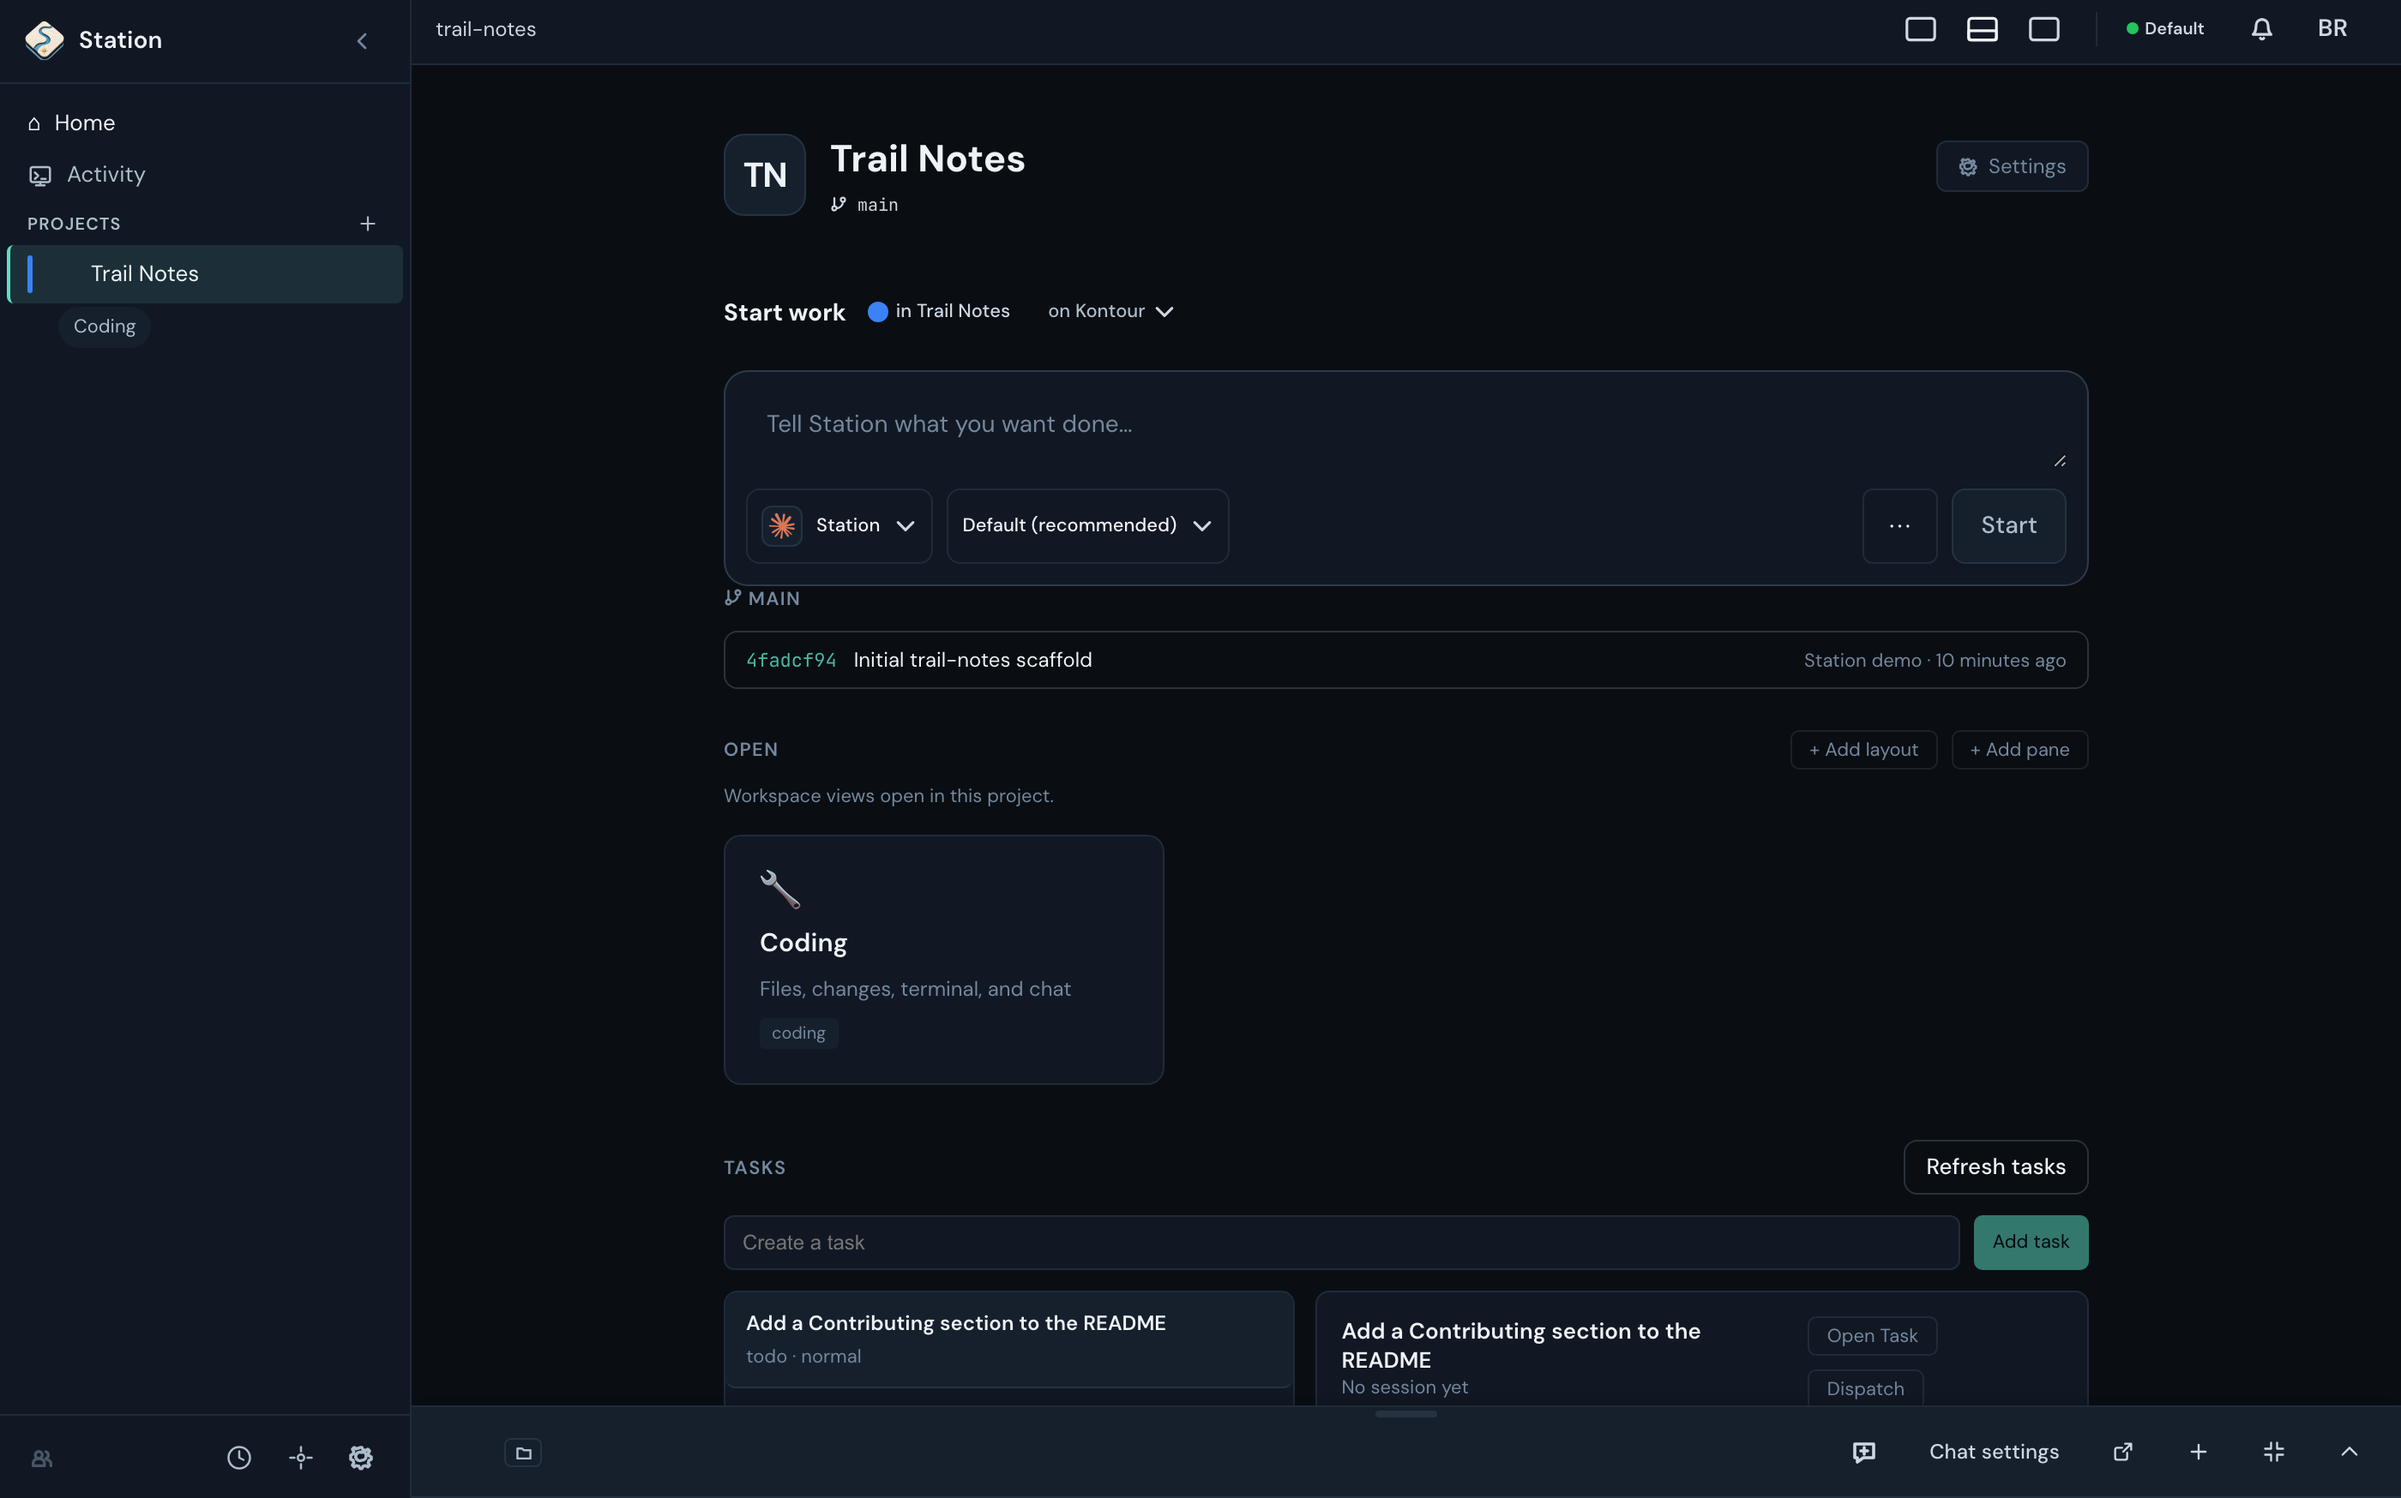
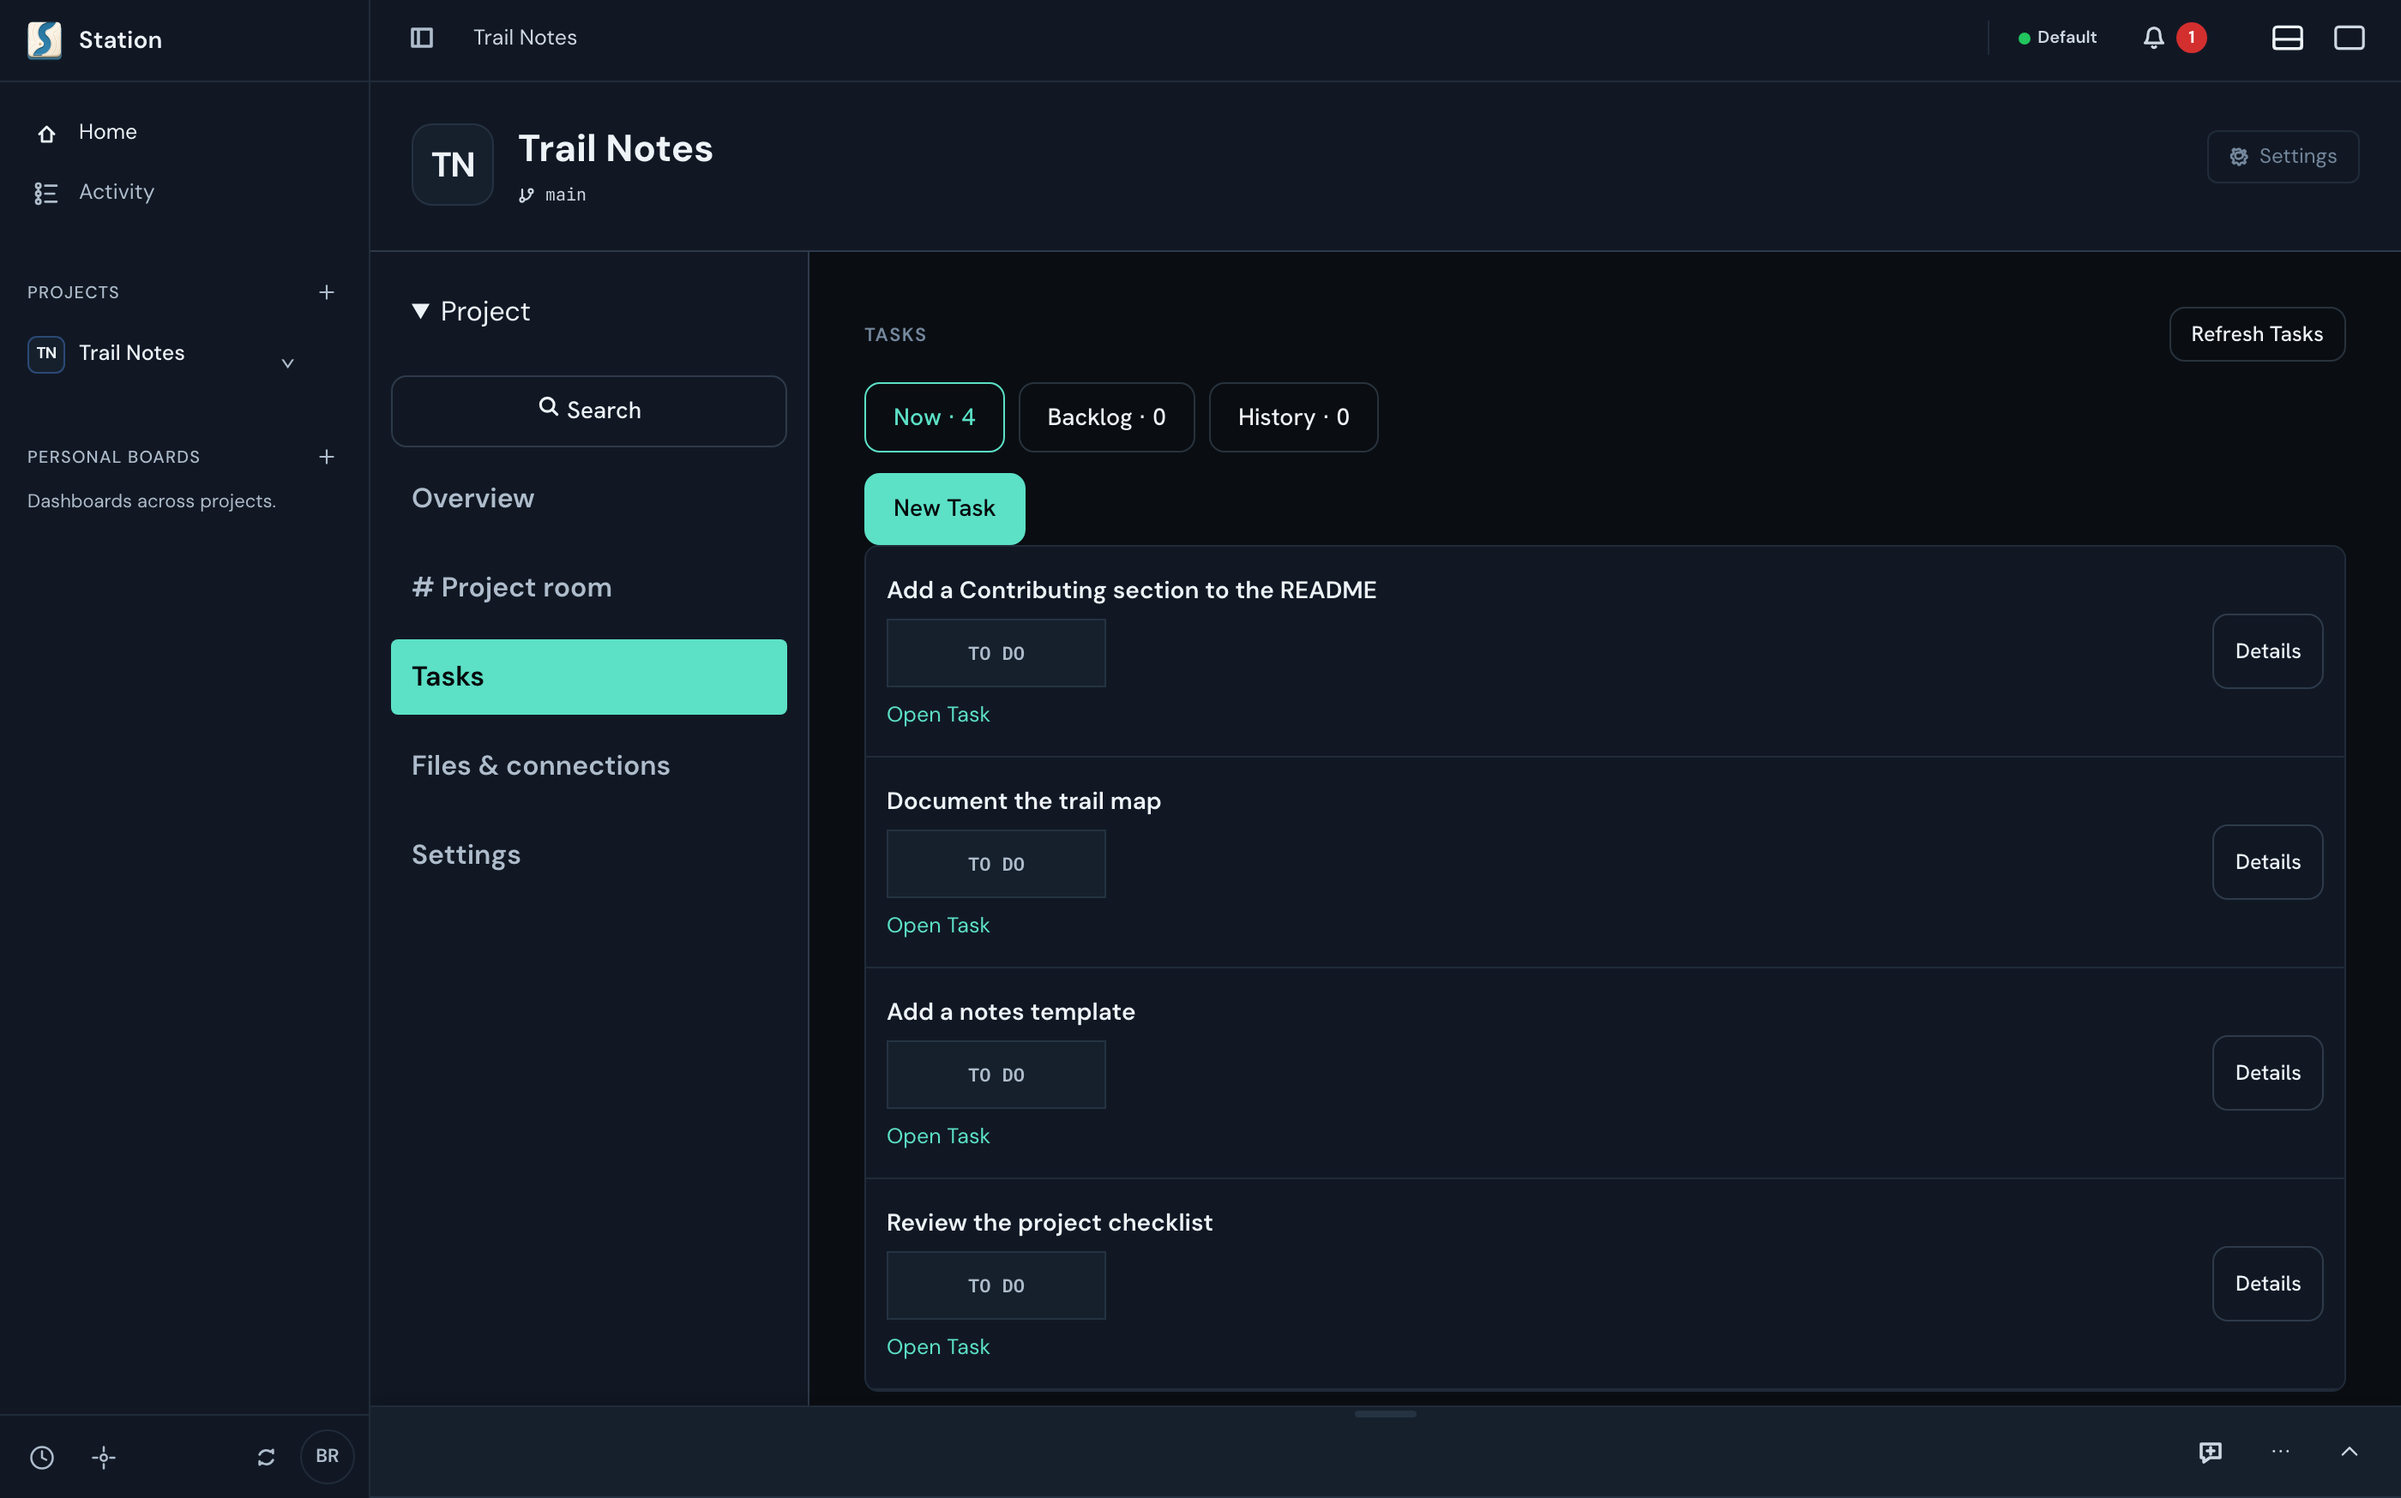
Refresh Station and Flow marketing visuals and copy (#338)
* Refresh reviewed Veritas and Flow Agents copy

* Refresh Station and Flow marketing visuals

* Finalize Station capture copy and Veritas evidence wording

* Correct planning and Station install claims

* Clarify runtime and platform limitations

diff --git a/src/lib/runtime-enforcement.ts b/src/lib/runtime-enforcement.ts
@@ -29,21 +29,14 @@ export const runtimeEnforcement: RuntimeEnforcement[] = [
     meaning: "Same blocking path, wired through Codex's hooks.json.",
   },
   {
-    // Kiro's adapter has the full blocking capability (hook-surface L2), but
-    // Kiro wires its hooks inside the agent JSON (its native config model), so
-    // there is no `.kiro/` host-config directory to look for — all four policy
-    // classes really do ship. What does NOT ship is the block-mode default: in
-    // flow-agents v9.2.0 the goal-fit `block` env default is attached only to
-    // the Claude Code and Codex policies (src/tools/build-universal-bundles.ts),
-    // so Kiro's done-check falls to the engine default `warn`
-    // (src/lib/effective-flow-agents-config.ts). Upstream docs
-    // (docs/getting-started.md, docs/spec/runtime-hook-surface.md §5.2) still
-    // say Kiro's stop hook blocks — flow-agents#1002.
+    // Kiro ships all four policy classes and can block at tool-call time.
+    // Its done-check uses the engine's warn default in 9.8.0 unless configured
+    // to block; see flow-agents#1002 and docs/getting-started.md.
     runtime: "Kiro",
     level: "advisory",
     label: "Advisory / opt-in block",
     meaning:
-      "All four policies ship and config protection blocks at tool-call time. Flow Agents' docs list Kiro's stop hook as blocking, but as of 9.2.0 its done-check ships in warn mode: set FLOW_AGENTS_GOAL_FIT_MODE=block, or goal_fit.mode \"block\" in .flow-agents/config/core.config.json, to make it stop the turn.",
+      "All four policies ship and config protection blocks at tool-call time. As of 9.8.0, Kiro's done-check ships in warn mode: set FLOW_AGENTS_GOAL_FIT_MODE=block, or goal_fit.mode \"block\" in .flow-agents/config/core.config.json, to make it stop the turn.",
   },
   {
     runtime: "opencode",

diff --git a/src/lib/products.ts b/src/lib/products.ts
@@ -105,7 +105,7 @@ export const applications: Application[] = [
     packageName: "@kontourai/station-cli",
     docs: "https://kontourai.github.io/station/",
     job: "Bring your agents, projects, and devices into one local-first workspace, with gates, evidence, and receipts beside the work.",
-    composition: "The workspace itself: open source, run from source or the macOS or Windows Nightly desktop build today. The published CLI client controls compatible Station servers from a terminal; its package version does not identify the server or desktop release. Plugins use the public SDK.",
+    composition: "The workspace itself: open source, available today as a one-command Nightly install, the Nightly desktop app, or from source. The published CLI client controls compatible Station servers from a terminal; its package version does not identify the server or desktop release. Plugins use the public SDK.",
   },
   {
     key: "fieldwork",
